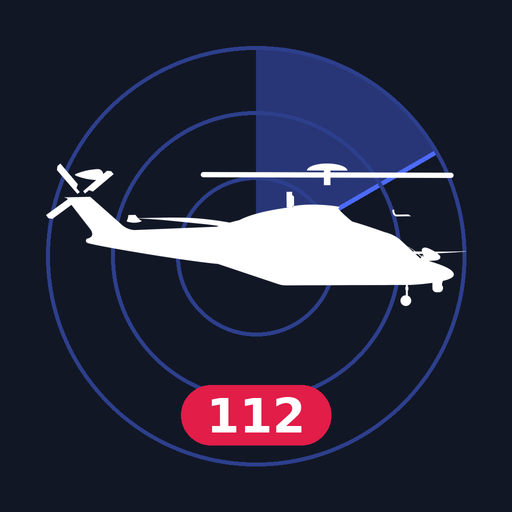
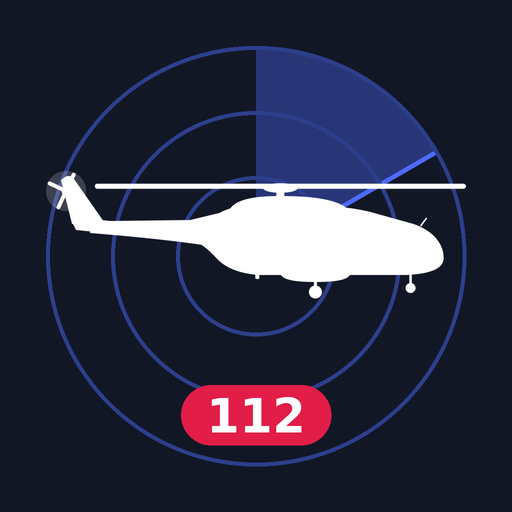
Zulu AW139 opnieuw getekend (app, iconen, Apple TV, website)
Claude-Session: https://claude.ai/code/session_01CXMY93G7xDhpkGzoP4jpki

Changed region(s): [[0.0938, 0.3125, 0.9062, 0.5938]]

diff --git a/CHANGELOG.md b/CHANGELOG.md
@@ -2,6 +2,7 @@
 
 ## 1.0.0 (4)
 - Op de kaart weer de eigen tekeningen in zijaanzicht; het bovenaanzicht is weg.
+- Zulu AW139 opnieuw getekend: strak en zonder losse stukken, ook in het app-icoon, het Apple TV-icoon en het splashscreen.
 
 ## 1.0.0 (3)
 - Eigen server in het Cloudflare-account 112heli: `112heli-api.112heli.workers.dev`.
